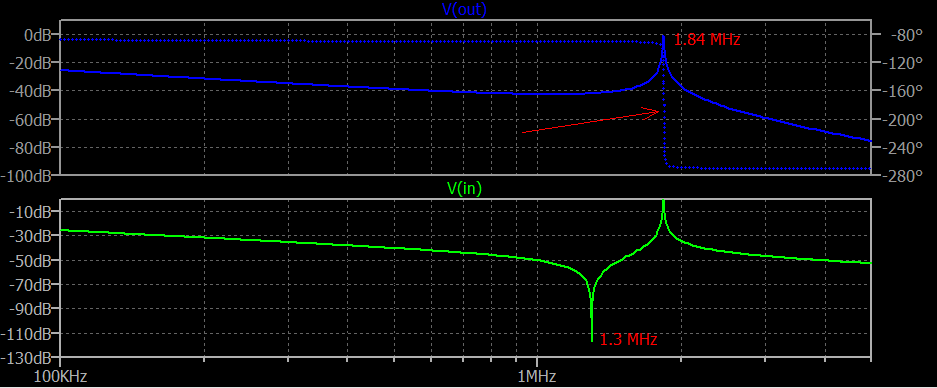
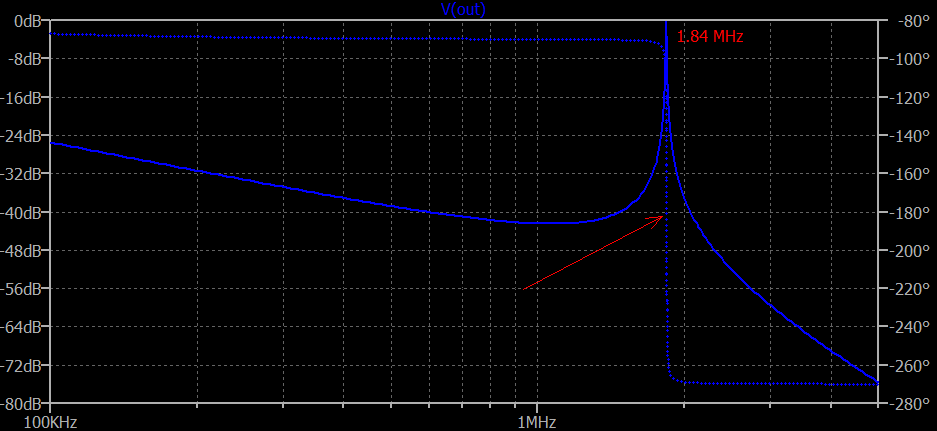
L-double-C.

diff --git a/_drafts/2025-06-27-HP10811-Colpitts-Oscillator.md b/_drafts/2025-06-27-HP10811-Colpitts-Oscillator.md
@@ -87,12 +87,21 @@ AC simulation in LTspice:
 
 ![Inductor with 2 capacitors, center is strppaed to ground, AC simulation](/assets/hp10811/l_double_c_with_center_to_ground_ac_schematic.png)
 
+I added a series 1000 Ohm resistor after the AC source to simulate the output impedance
+of the amplifier.[^series_resistor]
 
-![Bode plots of previous schematic, AC simulation](/assets/hp10811/l_double_c_with_center_to_ground_ac_schematic_bode.png)
+[^series_resistor]: When this resistor becomes very small, it impacts the resonance frequency of
+                    the LC tank because at that point, the AC source essentially cancels capacitor
+                    C1 and the resonance is determined by the values of L1 and C2 only.
 
+[![Bode plots of previous schematic, AC simulation](/assets/hp10811/l_double_c_with_center_to_ground_ac_schematic_bode.png)](/assets/hp10811/l_double_c_with_center_to_ground_ac_schematic_bode.png)
+*(Click to enlarge)*
 
-When there's energy in the components and we free-run the circuit without loss,
-we can see that there's a 180 phase shift between the both sides of the inductor.
+There are 2 important things to note:
+
+* the resonance frequency is 1.84 MHz.
+* the phase shift at the resonance frequency is 180 degrees.
+
 
 We can also see that the amplitude ratio between either side of the inductor
 depends on the ratio of the 2 capacitors.
